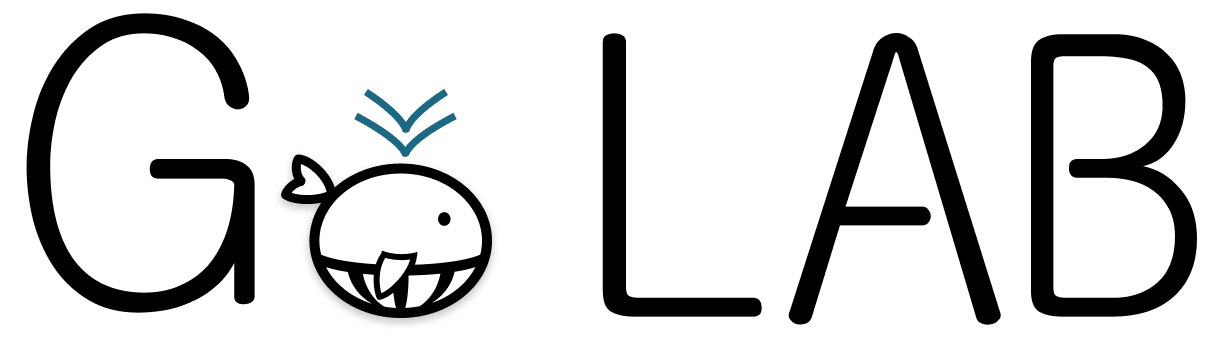
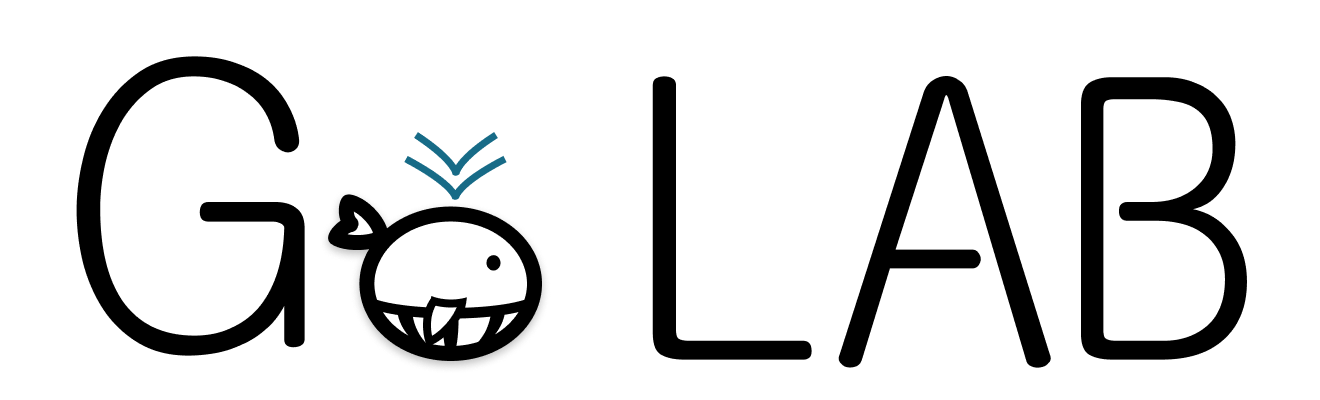
[FIX] 로그인 페이지에서 로고 이미지와 로고 크기 수정

diff --git a/src/pages/css/login.css b/src/pages/css/login.css
@@ -40,8 +40,8 @@ input::placeholder {
 }
 
 .goLab{
-    padding: 10% 0;
-    width: 300px;
+    padding: 8% 0;
+    width: 320px;
     height: auto;
 }
 
